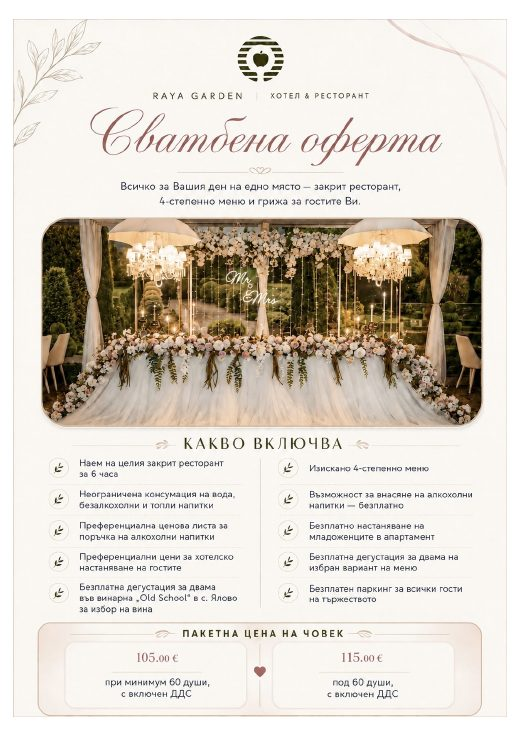
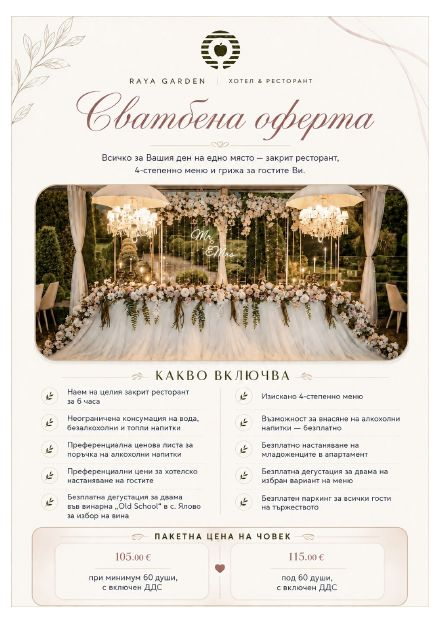
Get the brochure covers past the FTPS mirror
Two runs in a row, mirror deleted img/brochure-weddings.jpg and then
failed to replace it — "max-retries exceeded" on that one file, while
1.8 MB PNGs in the same run transferred fine, so it is neither size nor
permissions: the data channel dies mid-file.

- Serial transfer with longer timeouts and more retries. The parallel
  queue was the one thing the failing file shared with nothing else.
- The wedding cover is re-rendered at 440px (57 kB, same class as the
  corporate cover that always transferred), which also changes the bytes
  that were reproducibly dying.
- The card now falls back to the plain "View brochure" button if a cover
  fails to load, so a half-finished deploy shows the old design rather
  than an empty frame.

Claude-Session: https://claude.ai/code/session_01H7J5fG7gYPJxQFMjyGUp5W

diff --git a/src/pages/Events.jsx b/src/pages/Events.jsx
@@ -1,3 +1,4 @@
+import { useState } from "react";
 import { useOutletContext } from "react-router-dom";
 import { Heart, Briefcase, Phone, ExternalLink } from "lucide-react";
 import PageHero from "../components/PageHero.jsx";
@@ -40,8 +41,11 @@ function findBlock(blocks, key) {
 
 function EventCard({ Icon, heading, description, phone, pdfUrl, cover, t }) {
   // The brochure link carries its own cover — the same treatment the offer
-  // PDFs get on /event/<slug>. Without a PDF uploaded there is no link at all.
-  const showCover = Boolean(pdfUrl && cover?.src);
+  // PDFs get on /event/<slug>. Without a PDF uploaded there is no link at all,
+  // and a cover that fails to load falls back to the plain button rather than
+  // leaving an empty frame.
+  const [coverBroken, setCoverBroken] = useState(false);
+  const showCover = Boolean(pdfUrl && cover?.src && !coverBroken);
   // Width follows the page's own shape, so both covers come out COVER_HEIGHT
   // tall; on a screen too narrow for that the box scales down by its aspect
   // ratio rather than letterboxing.
@@ -84,6 +88,7 @@ function EventCard({ Icon, heading, description, phone, pdfUrl, cover, t }) {
                 alt={heading}
                 loading="lazy"
                 decoding="async"
+                onError={() => setCoverBroken(true)}
                 className="w-full h-full object-contain opacity-85 group-hover:opacity-100 group-hover:scale-[1.03] transition-all duration-700"
               />
               <div className="absolute inset-0 ring-1 ring-inset ring-gold-300/10 pointer-events-none" />
